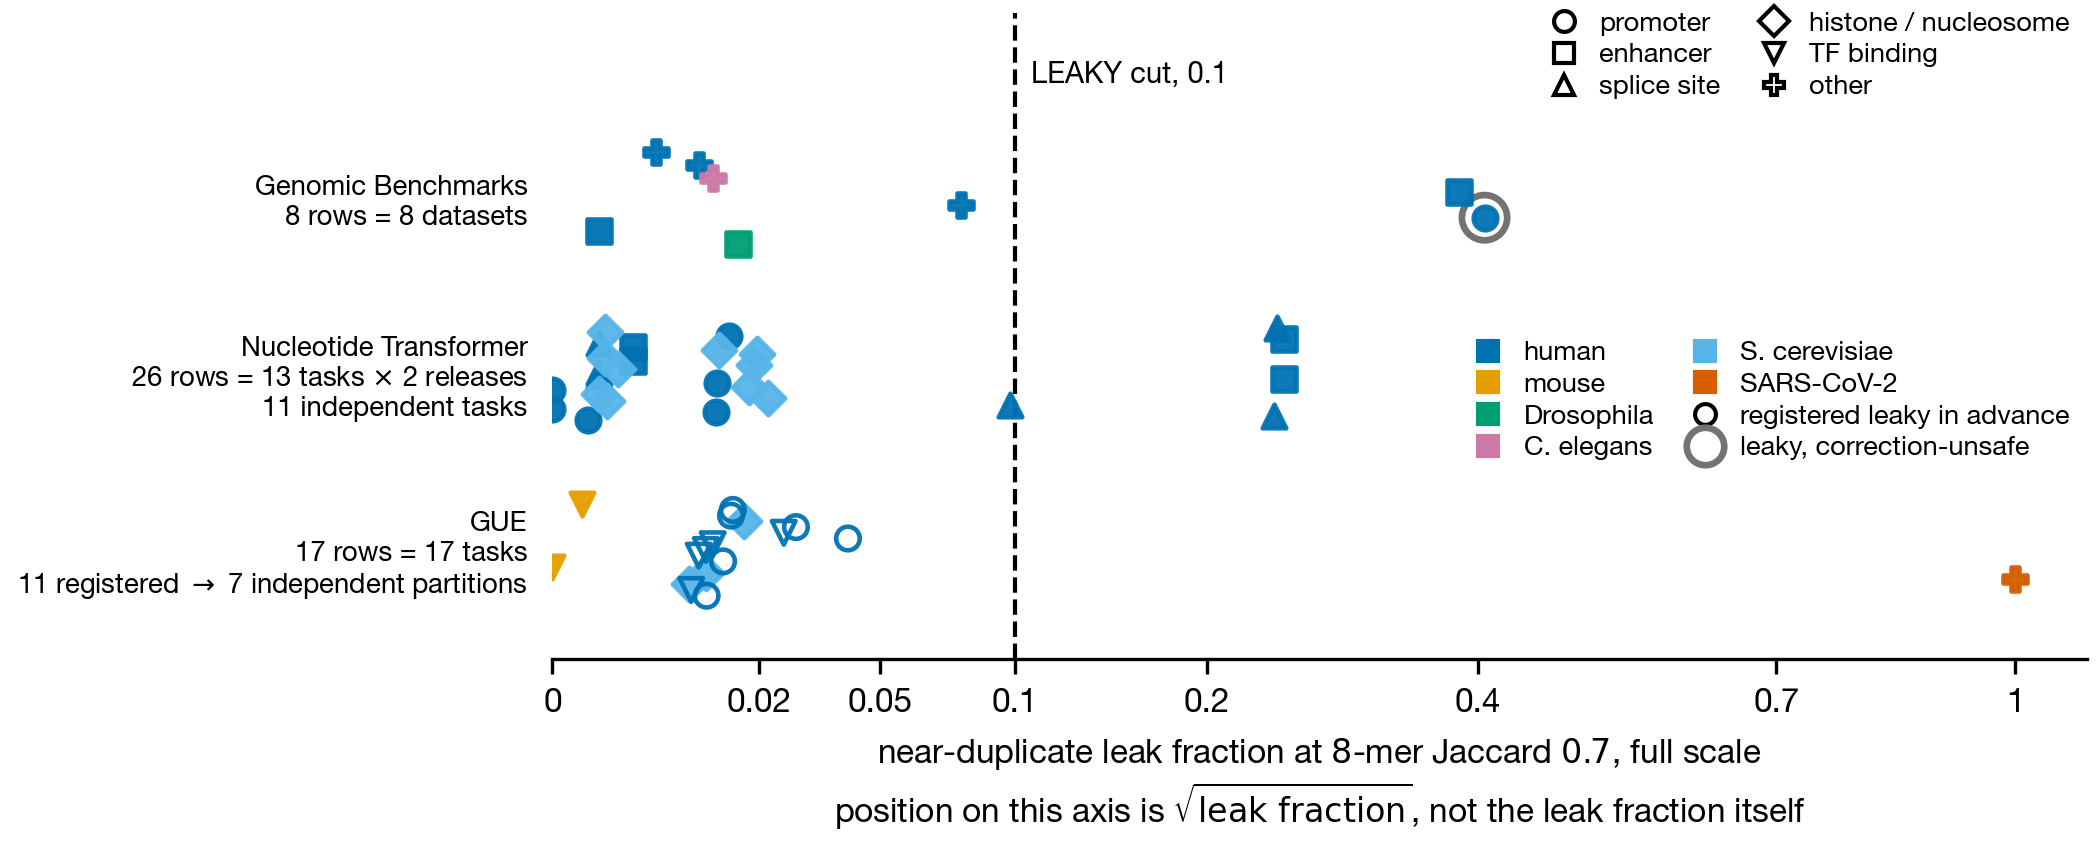
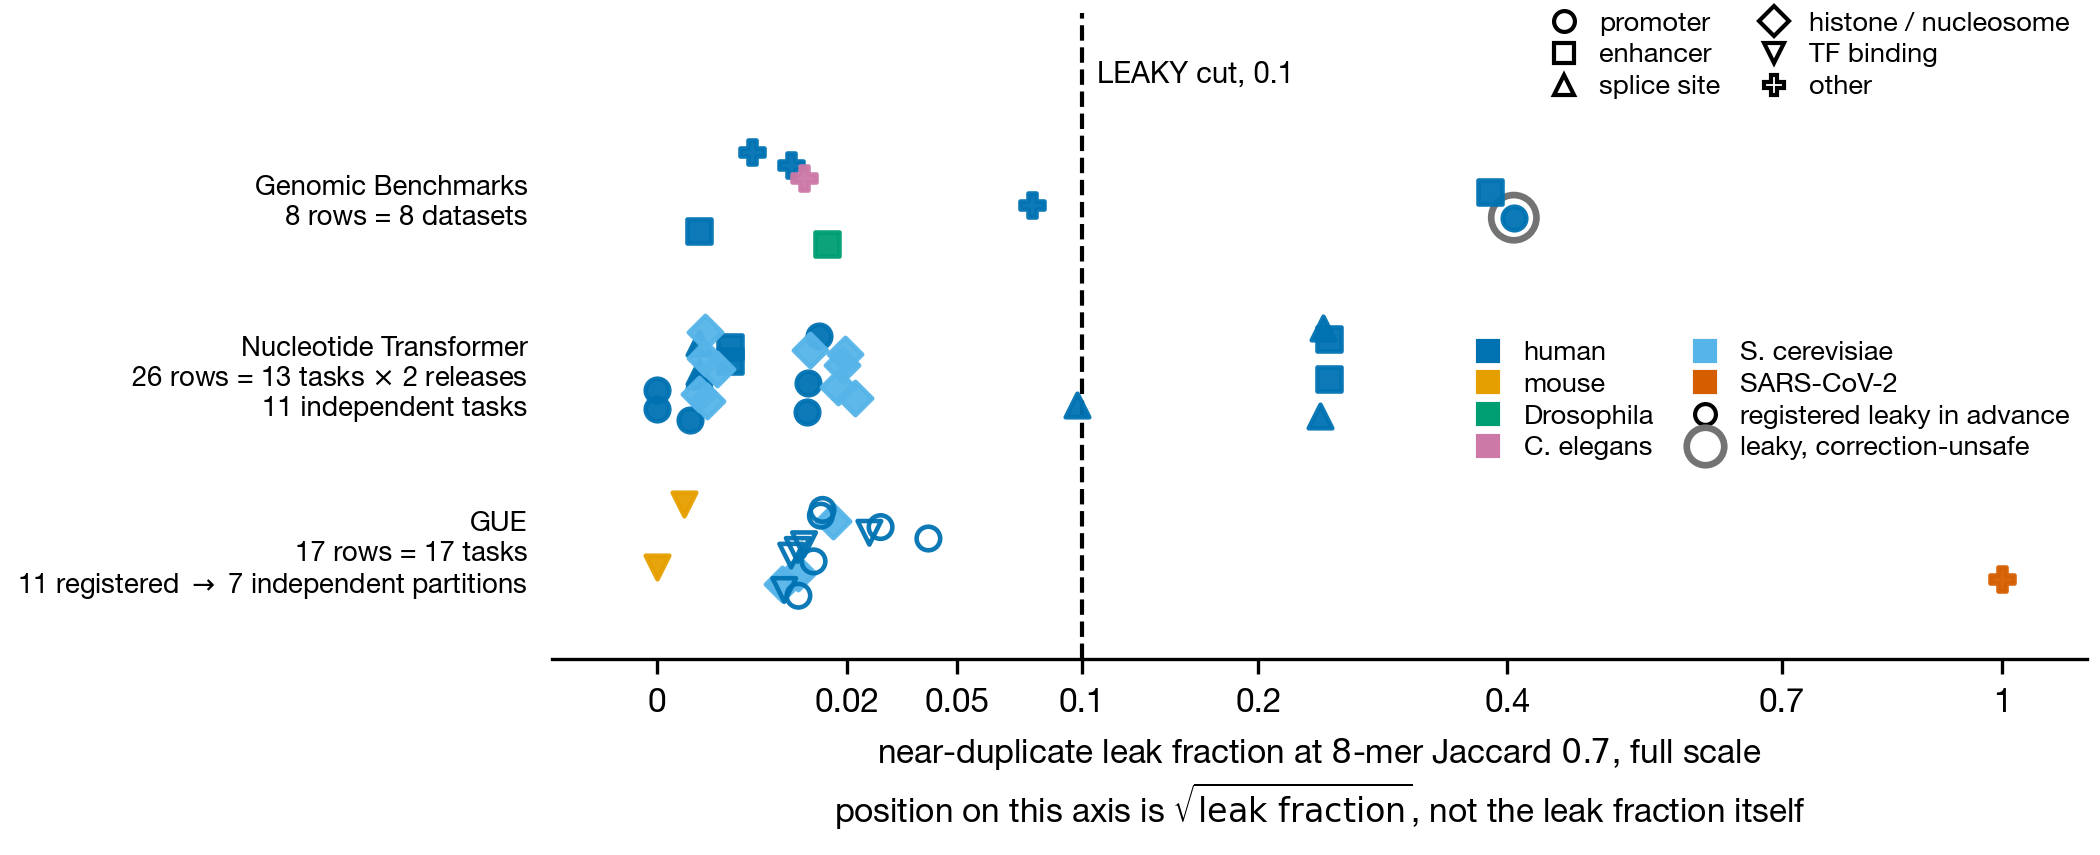
Fix the figure and table layout faults a visual pass found
The census scatter cut every marker at a leak fraction of 0.000 in half against the left
spine. Its square-root x transform clipped negatives to zero on the way in, so the negative
axis limit that was meant to leave a margin mapped to exactly the same place as the first
data value. The transform is signed now, and those markers -- real measurements on the two
rows a reader checks first -- are whole.

Table columns were sized by guess and several headers broke mid-word: "Direction" as
"Directio n", "Dataset" as "Datas et", "Prediction" over three lines, and the
decomposition table split "+0.0898" across two lines. Widths are rebalanced; the
decomposition table merges its dataset and model columns, which is what freed the room.

Equation numbers sat inline at the left margin where both venues ask for them on the right.
There is now an EquationLine paragraph style and the six numbered equations use it.

The NHSJS spec had single spacing, no space between paragraphs and no indent, which made
paragraph breaks invisible -- a page read as one block and a table caption did not announce
itself. A first-line indent separates them at no vertical cost, which the 20-page cap needs.

New: polish_docx.py, for the two things pandoc cannot express. Captions now keep with the
table or figure they label, so none is stranded at the foot of a page; text no longer runs
hard against the last table rule; and short tables move whole rather than leaving one row
[…]

diff --git a/paper/Fig/make_fig_census.py b/paper/Fig/make_fig_census.py
@@ -133,12 +133,20 @@ for i, s in enumerate(SUITES):
 ax.axvline(0.1, color="k", ls="--", lw=1.0, zorder=1)
 
 # Square-root x so the sub-0.1 region, where 44 of the 51 censuses sit, is legible.
-ax.set_xscale("function", functions=(lambda v: np.sqrt(np.clip(v, 0, None)),
-                                     lambda v: np.clip(v, 0, None) ** 2))
+#
+# The transform is SIGNED. An earlier version clipped negatives to zero on the way in,
+# which silently mapped every negative x to the same place as zero -- so the negative left
+# limit below produced no margin at all, the axis started exactly at the first data value,
+# and every marker at a leak fraction of 0.000 was drawn half outside the axes and cut in
+# half by the spine. Those are real measurements, on the two rows a reader checks first.
+# sign(v)*sqrt(|v|) is monotone through the origin, so a negative limit is honoured.
+ax.set_xscale("function", functions=(lambda v: np.sign(v) * np.sqrt(np.abs(v)),
+                                     lambda u: np.sign(u) * u ** 2))
 ticks = [0, 0.02, 0.05, 0.1, 0.2, 0.4, 0.7, 1.0]
 ax.set_xticks(ticks)
 ax.set_xticklabels([f"{t:g}" for t in ticks])
-ax.set_xlim(-0.004, 1.10)
+# Margin wide enough for the largest marker at x=0 to clear the spine.
+ax.set_xlim(-0.006, 1.13)
 
 ax.text(0.107, 2.70, "LEAKY cut, 0.1", fontsize=7, va="center")
 ax.set_yticks([2, 1, 0])
